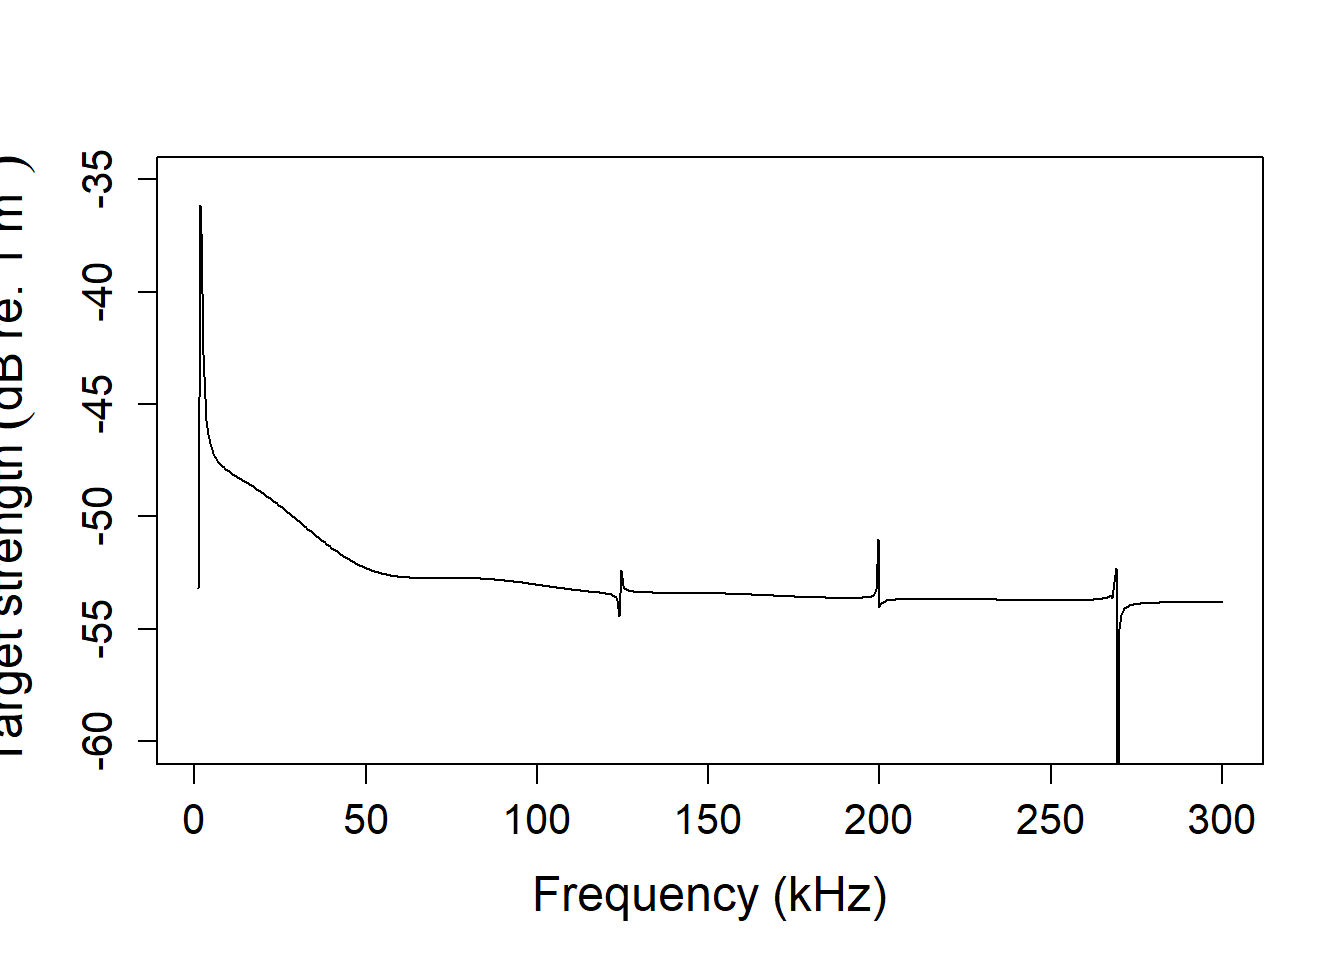
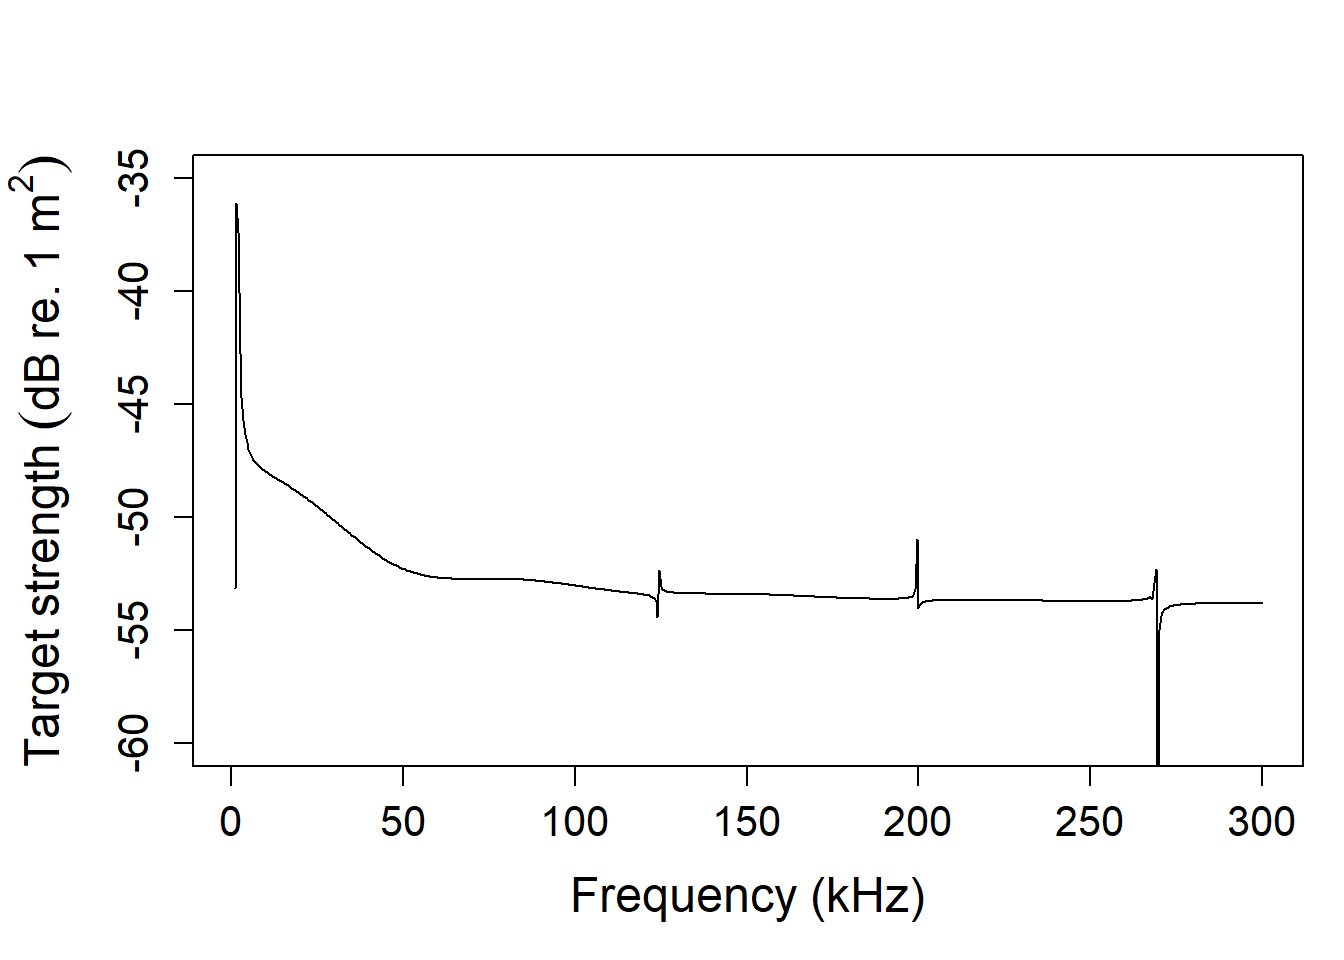
Updating README

diff --git a/README.md b/README.md
@@ -94,7 +94,7 @@ head(sardine_ts)
 ## 5 -0.012677445+0.003066274i -37.69246
 ## 6 -0.013938924+0.002765477i -36.94775
 ### Plot results
-### par(mar=c(5,5,4,1)+.05)
+par(mar=c(5,5,4,1)+.05)
 plot(x = frequency * 1e-3,
      y = sardine_ts$TS,
      type = 'l',
@@ -121,6 +121,7 @@ cal_sphere <- target_strength(object = cal_sphere,
 ### Extract model results
 calibration_ts <- extract(cal_sphere, "model")
 ### Plot the results
+par(mar = c(5,5,4,1) + .05)
 plot(x = frequency * 1e-3,
      y = calibration_ts$TS,
      ylim = c(-60, -35),
@@ -147,6 +148,7 @@ bubble <- target_strength(bubble,
 ### Extract model results
 bubble_ts <- extract(bubble, "model")$fluid_sphere$anderson
 ### Plot the results
+par(mar = c(5,5,4,1) + .05)
 plot(x =  seq(1e3, 300e3, 0.5e3) * 1e-3,
      y = bubble_ts$TS,
      ylim = c(-60, -35),
@@ -203,6 +205,7 @@ crustacean <- target_strength(crustacean,
 crustacean_dwba <- extract(crustacean, "model")$DWBA
 crustacean_dcm <- extract(crustacean, "model")$DCM
 ### Plot both
+par(mar = c(5,5,4,1) + .05)
 plot(x = seq(1e3, 400e3, 1e3) * 1e-3,
      y = crustacean_dwba$TS,
      type = 'l',
